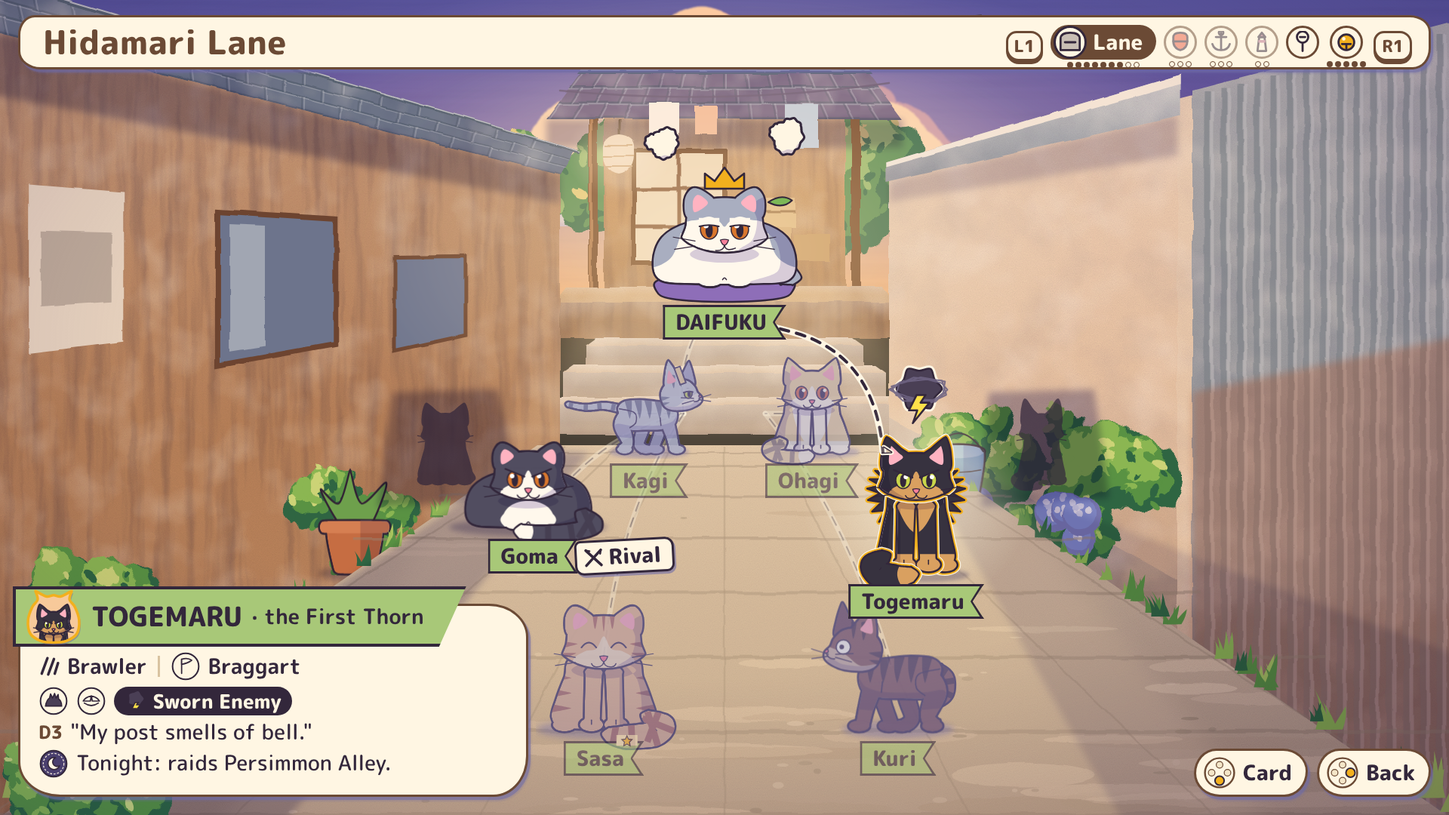
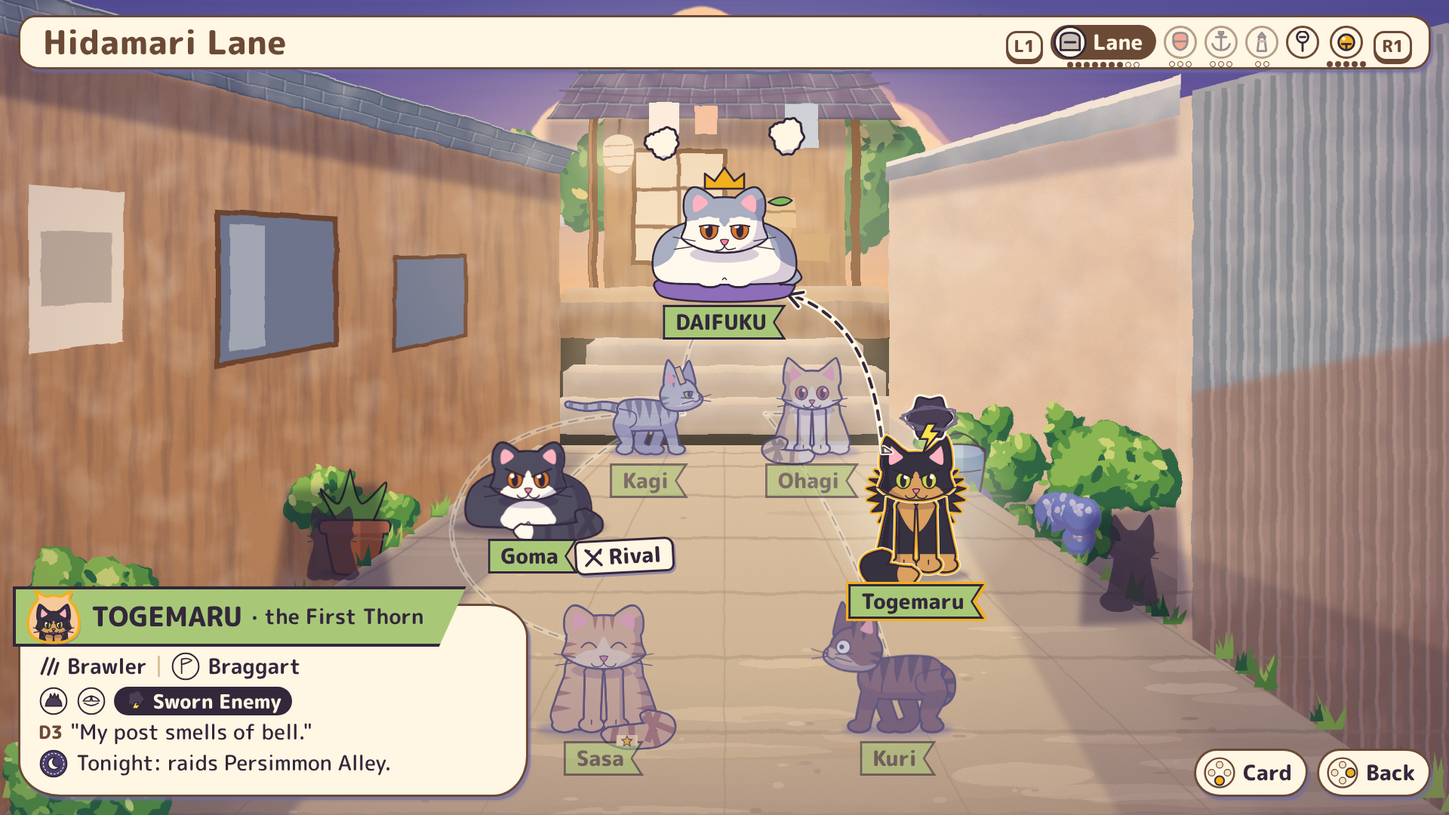
docs: Rivals board declutter fixes after UX review; gallery caption
Claude-Session: https://claude.ai/code/session_01K9BzCtu5ca2nRxDXecreHZ

diff --git a/design/previews/06-fence-line.html b/design/previews/06-fence-line.html
@@ -24,7 +24,7 @@
   .nm { position: absolute; transform: translateX(-50%); display: flex; align-items: center; }
   .nm .k-ribbon { height: 40px; font-size: 28px; padding: 0 26px 0 14px; }
   .nm--dim { opacity: .55; }
-  .nm--focus .k-ribbon { --k-clowder: var(--sage); box-shadow: 0 0 0 4px var(--gold); }
+  .nm--focus { filter: drop-shadow(3px 0 0 var(--gold)) drop-shadow(-3px 0 0 var(--gold)) drop-shadow(0 3px 0 var(--gold)) drop-shadow(0 -3px 0 var(--gold)); }
   .star { position: absolute; right: 8px; top: -12px; }
   .rtag { margin-left: -4px; display: flex; align-items: center; gap: 6px; height: 40px; padding: 0 14px 0 8px; background: var(--cream); border: 3px solid var(--ink); border-radius: 8px 12px 10px 12px; box-shadow: 2px 3px 0 rgba(110,106,168,.6); font: 800 28px/1 var(--font); color: var(--ink); transform: rotate(-3deg); }
   .rtag svg { display: block; }
@@ -144,9 +144,9 @@ const [dx, dy] = POS.daifuku;
 const dash = (d, w, op) => `<path d="${d}" fill="none" stroke="${C.cream}" stroke-width="${w + 5}" stroke-linecap="round" opacity="${op}"/><path d="${d}" fill="none" stroke="${C.ink}" stroke-width="${w}" stroke-dasharray="12 10" stroke-linecap="round" opacity="${op}"/>`;
 const head = (x, y, ang, w, op) => `<g transform="translate(${x} ${y}) rotate(${ang})" opacity="${op}"><path d="M-14 -10L4 0L-14 10" fill="none" stroke="${C.cream}" stroke-width="${w + 5}" stroke-linecap="round" stroke-linejoin="round"/><path d="M-14 -10L4 0L-14 10" fill="none" stroke="${C.ink}" stroke-width="${w}" stroke-linecap="round" stroke-linejoin="round"/></g>`;
 s.push(dash('M906 548Q896 480 932 424', 2, 0.35) + head(932, 424, -62, 2, 0.35));                     // left trunk (faint)
-s.push(dash('M760 630Q820 570 906 548', 2, 0.35) + dash('M836 548L906 548', 2, 0.35) + dash('M800 870Q820 680 906 548', 2, 0.35));
+s.push(dash('M760 630Q820 570 906 548', 2, 0.35) + dash('M836 548L906 548', 2, 0.35) + dash('M760 850Q600 800 598 700Q620 540 906 548', 2, 0.35));
 s.push(dash('M1060 548L1014 548', 2, 0.35) + dash('M1180 880Q1120 680 1014 548', 2, 0.35));           // dim right branches
-s.push(dash('M1170 600Q1160 470 1050 440Q1010 430 992 424', 4, 1) + head(992, 424, -165, 4, 1));  // Togemaru's own arrow
+s.push(dash('M1170 600Q1160 470 1100 420Q1074 398 1048 392', 4, 1) + head(1048, 392, -160, 4, 1));  // Togemaru's own arrow
 
 // Daifuku (his Boss): full colour, crown on the perch, two steam puffs above
 s.push(K.inked(K.blob(K.xf([[-90, 0], [-84, -16], [0, -22], [84, -16], [90, 0], [70, 10], [0, 14], [-70, 10]], { x: dx, y: dy })), '#8E6EB8', 2.5));
@@ -158,8 +158,8 @@ s.push(K.dustCloud({ x: dx - 80, y: dy - 196, r: 22, puffs: 4, seed: 2 }) + K.du
 // dimmed: Captains, Sasa, Kuri, and the two unmet silhouettes in the wall shade
 s.push(dim(K.cat({ ...RV.CAST.kagi, pose: 'side-walk', expr: 'smug', x: POS.kagi[0], y: POS.kagi[1], scale: 1.0 }) + `<g transform="translate(${POS.kagi[0] + 42} ${POS.kagi[1] - 100}) rotate(-20)">${K.inked('M-4 -14H4V9H-4Z', '#F2D8A0', 1.8)}</g>`));
 s.push(dim(K.cat({ ...RV.CAST.ohagi, pose: 'front-sit', x: POS.ohagi[0], y: POS.ohagi[1], scale: 1.1, flip: true })));
-s.push(K.castShadow('M520 520L660 516L690 660L500 672Z', 0.5) + K.castShadow('M1310 520L1450 516L1470 660L1300 672Z', 0.5));
-s.push(`<g opacity="0.72">${sil(K.cat({ ...RV.CAST.hanpen, pose: 'front-sit', x: 590, y: 640, scale: 0.92, shadow: false }))}${sil(K.cat({ ...RV.CAST.nori, pose: 'front-sit', x: 1380, y: 640, scale: 0.9, shadow: false, flip: true }))}</g>`);
+s.push(K.castShadow('M380 650L500 640L520 790L360 800Z', 0.55) + K.castShadow('M1440 680L1560 670L1580 820L1430 830Z', 0.55));
+s.push(`<g opacity="0.72">${sil(K.cat({ ...RV.CAST.hanpen, pose: 'front-sit', x: 440, y: 766, scale: 0.82, shadow: false }))}${sil(K.cat({ ...RV.CAST.nori, pose: 'front-sit', x: 1500, y: 800, scale: 0.95, shadow: false, flip: true }))}</g>`);
 s.push(dim(K.cat({ ...RV.CAST.sasa, pose: 'front-sit', expr: 'happy', carry: 'spring', x: POS.sasa[0], y: POS.sasa[1], scale: 1.55 })));
 s.push(dim(K.cat({ ...RV.CAST.kuri, pose: 'side-walk', expr: 'shock', x: POS.kuri[0], y: POS.kuri[1], scale: 1.4, flip: true })));
 
@@ -172,7 +172,7 @@ s.push(K.shadow({ x: tg.x, y: tg.y + 6, rx: 70, ry: 10, opacity: 0.5 }));
 s.push(K.glow(tg.x, tg.y - 90, 150, 140, '#FFF0C0', 0.55));
 s.push(RV.hackles({ x: tg.x, y: tg.y, scale: tg.sc, rim: C.gold }));
 s.push(RV.notched(K.cat({ ...RV.CAST.togemaru, pose: 'front-sit', expr: 'angry', outline: 'gold', x: tg.x, y: tg.y, scale: tg.sc, flip: true, shadow: false }), [RV.frontNotch(tg.x, tg.y, tg.sc, 'l')], { rim: C.cream }));
-s.push(RV.storm({ x: tg.x + 4, y: tg.y - 236, s: 0.85 }));
+s.push(RV.storm({ x: tg.x + 18, y: tg.y - 198, s: 0.85 }));
 
 /* ---------- grade: soft violet edge ---------- */
 s.push(`<radialGradient id="vg" cx="0.5" cy="0.42" r="0.75"><stop offset="0.55" stop-color="#6E5AA0" stop-opacity="0"/><stop offset="1" stop-color="#6E5AA0" stop-opacity="0.34"/></radialGradient><rect width="${W}" height="${H}" fill="url(#vg)" style="mix-blend-mode:multiply"/>`);

diff --git a/design/previews/gallery.html b/design/previews/gallery.html
@@ -109,8 +109,8 @@ code { font-family: ui-monospace, Menlo, Consolas, monospace; font-size: .9em; }
       <figcaption><b>The stand-off</b><span>Togemaru, the first rival to come back, opens with a line about the ear you notched last time.</span></figcaption>
     </figure>
     <figure>
-      <img src="06-fence-line.png" alt="A dusk alley in deep perspective: the boss Daifuku on a porch perch at the far end with a crown and anger puffs, captains on the steps and the rest of his gang down the path, each with a name ribbon and role tag, dashed arrows up to the boss, two unmet cats as silhouettes, a scene strip of six districts in the header, and Daifuku's card bottom left." loading="lazy">
-      <figcaption><b>The Rivals board</b><span>Each gang staged as a scene: the boss on its perch, captains on the steps, the rest on the path, cats you have not met as silhouettes. Six scenes cover every gang in town plus newcomers and your own crew. Hovering a cat hangs relationship tags on the others you know, and the card shows its anger and its own history.</span></figcaption>
+      <img src="06-fence-line.png" alt="A calm dusk alley in deep perspective: the boss Daifuku on a porch perch with a crown and anger puffs, his gang down the path each with only a name ribbon, Togemaru selected with a gold rim while the others are dimmed, Goma tagged Rival, two unmet cats as silhouettes in the wall shade, a compact scene strip in the header and Togemaru's card bottom left." loading="lazy">
+      <figcaption><b>The Rivals board</b><span>Each gang staged as a scene: the boss on its perch, captains on the steps, the rest on the path, cats you have not met as silhouettes in the shade. At rest every cat shows only its name. Pointing at one (here Togemaru) dims the others, tags its ties (Goma, its rival) and opens its card. Six scenes cover every gang in town plus newcomers and your own crew.</span></figcaption>
     </figure>
     <figure>
       <img src="07-verdict.png" alt="A dizzy defeated rival lies before Mikan and the crew, with three choices: Chase Off, Nose-Touch with a 10-day truce, and Recruit with two bribe prices." loading="lazy">

diff --git a/production/artifact-slice/IMPLEMENTATION-PLAN.md b/production/artifact-slice/IMPLEMENTATION-PLAN.md
@@ -27,7 +27,7 @@
 1. **The look.** Within 30 seconds: "a hand-painted anime I can walk around in". Inked cel cats over painted streets and sky, from any camera angle.
 2. **The brawl.** They switch cats and command a Move in Slow Blink. Before minute 4 they finish their first **two-cat Pile-On**.
 3. **A Rival who remembers.** Togemaru flees on day 1, returns on day 2 and **cites yesterday** (≈ 7:15). They give him one of **three Verdicts**, and it shows on his model (a Scar) and on the **Rivals board**.
-4. **A town of cats who know each other.** The Rivals board as a **staged alley scene**: Daifuku on the far perch, the gang down the steps with name ribbons and role tags, silhouettes for cats not yet met; they **hover a cat and see its ties**, including one they discovered by sniffing.
+4. **A town of cats who know each other.** The Rivals board as a **staged alley scene**: Daifuku on the far perch, the gang down the steps with name ribbons (role tags on the focused cat's card), silhouettes for cats not yet met; they **hover a cat and see its ties**, including one they discovered by sniffing.
 5. **Territory that never stays won.** A stranger **stakes their post**; the **influence bar** sits at 95%; one rescue Spray fills it and **the Boss climbs down off his wall**. They read the threat on the **unified Turf Board**, **post a Sentry**, sleep, and find the result **as a pile of fish on the Doorstep**, with the bar a little lower for the night.
 6. **Home.** The HUD fades at the garden wall and the camera drops to cat height. **The Call** (E4–G4–C4), the bell on the fourth beat, then a wordless scene with Haru at the upright piano: Mikan walks the keys and she plays a bass line under the steps.
 7. **Optional: losing.** Those who take on the Boss early and lose see the day end: moon-blue nightfall, the walk home, and Haru's sticking plaster.
@@ -95,7 +95,7 @@ Life 1 days 1–2 stay almost intact (≈ 9 min). Then the Life 1→2 montage, a
 | 8:35–8:55 | **Sniff to discover.** Hige: "That's Daifuku up there." Hold Whisker Sense on him for 1 s from the yard perch → the scent-outline confirmation [skippable; he then stays a crowned silhouette] | Discovery | Systemic rule; placed perch |
 | 8:55–9:20 | **M1 The Kitten Grows** (25 s): seasons through the glass; the Piece through the walls, always stopping at the same bar. "Life 2" | Wordless; piano motif | Scripted |
 | 9:20–9:45 | **Life 2 day 2, the Doorstep**: a bigger pile. The Sniff, in canon priority: **A** the Declaration card (Sworn Rival, sprig, notch) · **B** "Wears the bell now" · **C** "Run out of town"; **"A stranger's scent"** (a silhouette staking Laundry Pole Yard, tape star); **"The big wall is seething."** (steam puffs). Forecast: tonight's **`challenge`** on Laundry Pole Yard (the silhouette + a Stray) | Sniff cards, forecast | Snapshot; forecast from data |
-| 9:45–10:15 | **The Rivals board** ("(N) See the Rivals"): the Lane's alley in deep perspective, Daifuku on the far perch with three puffs, the gang down the steps with name ribbons and role tags and answers-to arrows, unmet cats as silhouettes. One hint: "Hover a cat: see who it knows." Hover Togemaru → Goma **Rival**, Daifuku **Boss** (B: **Old Boss**); hover Daifuku → Hige **Old Gang** (if sniffed); Kinako shows no tag, because Sasa is still a silhouette. The Outsiders gate holds the challenger's silhouette | Rivals board, tags, discovery | Systemic display |
+| 9:45–10:15 | **The Rivals board** ("(N) See the Rivals"): the Lane's alley in deep perspective, Daifuku on the far perch with three puffs, the gang down the steps with name ribbons and faint answers-to arrows, unmet cats as silhouettes. One hint: "Hover a cat: see who it knows." Hover Togemaru → Goma **Rival** and his arrow to Daifuku brightens (B: **Old Boss** tag on Daifuku), his card slides up with his role tag; hover Daifuku → Hige **Old Gang** (if sniffed); Kinako shows no tag, because Sasa is still a silhouette. The Outsiders gate holds the challenger's silhouette | Rivals board, tags, discovery | Systemic display |
 | 10:15–10:55 | **The Lot → unified Turf Board (≤ 45 s, one decision).** Header: **influence 95%**, crown unlit. Map: Laundry Pole Yard with a stake badge. The Tonight panel opens on it: the challenger + Stray, `challenge`, "Scent 48 · Strong at 60", tomorrow's Tribute. Carry a cat: **Pon** (laughs off the challenge: no over-mark), **Hige** (best odds, leaves the Posse) or **Kinako** (weak alone). The odds bar in three segments, no percentages | Sentries, counters | Systemic; seeded per save |
 | 10:55–11:15 | **The gatepost.** The challenger glowers from the fence top beside it. **Rescue Spray the gatepost** (48 → 90; hint "Spray it Strong. The bar fills.") → **influence 100**: Daifuku's yowl rolls down and he climbs to his Morning stop on the yard wall above the wash tub (≈ 15 s, in view, control kept); a crown tick on the compass | Rescue Spray, the Boss window | Systemic window; staged climb |
 | 11:15–12:15 | *Optional* [fast path: "Nap to Dusk"]. **The challenger**: "This post's mine now, Collar." Challenger + 1 Stray at the gatepost, the **bucket** and a **Relay**. **A:** a 3 s yowl and **Togemaru joins** as an allied guest (sprig plate). Rout → **the second Verdict** (Chase Off or Nose-Touch; Recruit halftoned, "turns its tail to the bell"). The challenge ends; no Scent is gained | Relay, Fears, join-in | Systemic; join forced in A |
@@ -197,7 +197,7 @@ Kagi as a fighter, Tofu Shop Step and Persimmon Alley as playable Patches; Daifu
 - **The Rivals board is a staged 3D diorama (C6; `key-screens.md` §2 owns the layout).** It is not a 2D panel: it is a small separate scene, rendered alone while the street is paused.
   - **Set:** a narrow alley climbing away from a fixed camera in deep perspective (vFOV ≈ 35°, low eye height): stone steps and a path toward the camera, a raised porch perch at the vanishing point for the Boss, built from `world/board_lane.json` with the same environment shader, baked paint and phase lighting as the street (Dusk gold by default; moon-blue after a loss).
   - **Cats:** the live SDF meshes in a neutral idle per personality, placed on authored **step anchors** by each cat's fixed role (`relations.json`); play never reorders them. **Undiscovered** cats use the same anchor with a flat Ink material and a generic sit pose (no coat, Scars or pose), plus a crown outline for a Boss. Gone cats are paper legend cards on their anchor.
-  - **Labels:** name ribbons, role tags, relationship tags, puffs and sprigs are DOM elements positioned each frame from projected 3D anchor points; **answers-to arrows** are dashed SVG paths between projected anchors; the header (place, influence bar), the left facts column, the bottom-left cat card and the bottom-right button bar are static DOM.
+  - **Labels:** name ribbons, relationship tags (≤ 3, on focus), puffs and sprigs are DOM elements positioned each frame from projected 3D anchor points; **answers-to arrows** are dashed SVG paths between projected anchors; the header (place name, scene strip), the bottom-left cat card (on focus only; carries the role tag) and the bottom-right button bar are static DOM. No fact column and no influence bar on the board (owner declutter, 2026-11-24).
   - **Interaction:** mouse hover raycasts against per-cat bounding capsules (120 ms delay); pad and keys move focus in step order (nearest first); L1/R1 cycle scenes (the Lane, the Outsiders gate, the Bell at the Lot); 2–4 px camera drift on focus change (off under Reduce Motion).
   - **Budget:** ≤ 200 draw calls and ≤ 250k triangles, so it opens in ≤ 300 ms after the first visit (the set is built once and kept).
 - **Sizing:** scales from `min(vw, vh)`; text floor 28 px at 1080p, 150% option. Home shows pictograms only; the HUD fades over 800 ms at the wall.
@@ -348,7 +348,7 @@ An **agent-session** is one focused session by one specialist agent (≈ 2–4 h
 | **M0** | **Look-dev spike: GO/NO-GO on the art target** (unchanged in intent) | Adult Mikan and one Wall Sitter (idle and walk) in **one lane corner**: plaster wall with coping, board fence, laundry pole, stone-lantern Scent Post, hydrangeas, a foliage clump, sky dome, sea card. Day and Dusk, free orbit camera. A comparison page beside `01-exploration.png` | (1) Side-by-side at the 01 framing in Day and Dusk, judged by the art- and creative-directors, then **the user**. (2) Pixel checks: line 2.0 ± 0.5 px at 1080p and at 85% scale; Ink ΔE ≤ 3; E-5 separation ≥ 20 L*; no grey shadows. (3) 8 orbit shots 45° apart, none reading as untextured 3D. (4) A silhouette strip of the 6 tail carriages. **Decision:** GO / GO with fixes / pivot to the §8 risk 1–2 fallbacks | **5–6** |
 | **M1** | **Combat grey box** | The sandbox chapter: the full verb set, Tag-In and Relay, Slow Blink, Quick and Full Pile-On, the 6 Moves, personality AI, tiers and the arbiter, the combat camera and HUD; **the allied guest**; **Daifuku phase 1 on the wash-tub kit** (knock-offs, Climb Back, Fired Up by stage, the phase-break flee) | Unit tests reproduce F1–F6 worked examples (Pile-On 48 / 34.3 / 55.1 MV) and F11 (Fired Up seconds by stage; paused while Soggy). The same seed and input log give the same outcome hash. A smoke run reaches a Pile-On. A guest joins on cue and the opposing Rival's AI state is unchanged (hash). Daifuku: a scripted bot reaches the phase break; a passive bot wipes. 10 random-pause shots. Flash screening on a Pile-On | **8–9** |
 | **M2** | **Lane, exploration, territory** | ≈ 120 m of lane with two Patches, the yard-wall stop and the Den sniff perch, High Road ribbons, Whisker Sense (incl. the 1 s sniff), Over-mark, Counter-Spray, Claim and Rescue Spray, wisps, `MarkApplied`, the Explore camera with collision, Day → Dusk with the lamp wave, the Head Home thread, the street HUD, the wall blend | A 5-min bot walk: zero frames with the camera inside geometry; the cat in frame ≥ 98%. Scent and influence unit tests (Territory §4.14 worked example: 95 → 100). 6 vantage shots × 2 phases. A real-laptop frame log | **6–7** |
-| **M3** | **Rivals, Verdict, the Rivals board** | The Togemaru arc over L1D1–L1D2 (Standoff, sting, day-1 flee, memory line, the first-Rout Scar, **the three-card Verdict** with tells and reasons); discovery; **the Rivals board as a 3D perspective diorama** (§3.4) with ribbons, role tags, answers-to arrows, silhouettes, hover/focus tags, puffs, sprigs, legend cards, the Outsiders and Bell scenes; the Declaration and closing cards | Ledger tests against Nemesis §3.5 and its caps; F4 gate checks (Togemaru 43 < 45 open; a loud take closes a Life 2 Keeper's card). **Patent invariant tests:** a Verdict, a join-in and an anger change alter no cat but the subject. One smoke run per Verdict (A, B, C) checks the stored state and the snapshot. Tag tests: no tag on an undiscovered cat; Kinako shows none while Sasa is unmet. The board opens ≤ 300 ms after first build; all slice cats fit 1080p without scrolling. Screenshots of each screen and scene | **6–7** |
+| **M3** | **Rivals, Verdict, the Rivals board** | The Togemaru arc over L1D1–L1D2 (Standoff, sting, day-1 flee, memory line, the first-Rout Scar, **the three-card Verdict** with tells and reasons); discovery; **the Rivals board as a 3D perspective diorama** (§3.4) with ribbons, answers-to arrows, the focus card with role tags, silhouettes, hover/focus tags, puffs, sprigs, legend cards, the Outsiders and Bell scenes; the Declaration and closing cards | Ledger tests against Nemesis §3.5 and its caps; F4 gate checks (Togemaru 43 < 45 open; a loud take closes a Life 2 Keeper's card). **Patent invariant tests:** a Verdict, a join-in and an anger change alter no cat but the subject. One smoke run per Verdict (A, B, C) checks the stored state and the snapshot. Tag tests: no tag on an undiscovered cat; Kinako shows none while Sasa is unmet. The board opens ≤ 300 ms after first build; all slice cats fit 1080p without scrolling. Screenshots of each screen and scene | **6–7** |
 | **M4** | **Home and story** | The house, Haru's and Gran's legs and hands, K1.1, K1.3, M1, Storyboard B with the piano duet and Lap, **the plaster beat** and Storyboard B's short form at night light, the Home camera, the Call system | No standing-adult face in 200 random free-roam frames. Shot-list screenshots (incl. the plaster beat). **A muted run reviewed against the Tier A lines.** The Call's pitches verified by FFT on an offline render (E4, G4, C4 ± 10 cents) | **7–8** |
 | **M5** | **Day loop, overnight, owner beats, full script** | The director runs §2.2 end to end: the Sniff cards, the Rivals board stop, **the unified Turf Board** with the influence header, **the rescue-Spray reveal**, **the challenger** (staking, fight, second Verdict, join-in in A, over-mark, `challenge` raid), **the loss flow** (nightfall, closed street, walk home, Routed Evening hook) and **branch D/L**, the overnight diorama with decay, the tribute morning, chapter select (A/B/C, "Lose to Daifuku", sandbox, new seed), the end card | Raid odds match the §4.5 worked table (Stalwart single raider 90/5/5; Pon `grudge` counter 78%) and a `challenge` case. Influence after the night matches Territory §4.1 (seeded case with the gatepost guarded: Tofu Shop Step 70 → 58, bar 99, window open). Loss tests: clock = 720, −20% haul, only the victor's record changes. Full-run smoke tests reach the end card in A, B, C and L with no console errors. **Timed human runs:** main ≤ 15 min, fast ≈ 12:30, branch L ≤ 17 min. Turf Board first use ≤ 45 s | **6–7** |
 | **M6** | **Audio** (in parallel from M1) | Instruments, the scores, ≈ 45 SFX, Murmur, the mix; Daifuku's yowl, the challenger sting, the join-in yowl, the nightfall sting | Property test: 10k random key-walks never form the Call. Duck ≥ 9 dB. Peaks ≤ −1 dBFS. Audio-director sign-off. A 3-person "hum the Call" check | **5–6** |

diff --git a/design/ux/key-screens.md b/design/ux/key-screens.md
@@ -1,6 +1,6 @@
 # UX Spec: Key Screens — Cat RPG (vertical slice, round 2)
 
-*Owner: ux-designer · Date: 2026-11-23, revised 2026-11-24 (owner feedback pass; consistency pass by the creative director) · Status: round-2 slice rewrite, revised to the owner's comments C1–C5 (the first draft is archived at `design/backlog/first-drafts/key-screens.md`)*
+*Owner: ux-designer · Date: 2026-11-23, revised 2026-11-24 (owner feedback pass; consistency pass by the creative director; Rivals board declutter, `design/ux/rivals-board-cleanup.md`) · Status: round-2 slice rewrite, revised to the owner's comments C1–C5 (the first draft is archived at `design/backlog/first-drafts/key-screens.md`)*
 *Canon order: owner comments `design/reviews/user-comments-2026-11-24.md` → `design/reviews/owner-feedback-rulings.md` (OR-xx, binding), as settled by `design/reviews/owner-feedback/consistency-pass.md` (F1–F12) → `design/creative-brief.md` v1.6 → round-1 DR-xx and round-2 R1–R5. Patent guardrails: `design/legal/nemesis-patent-analysis.md` v2 §5 (binding). Companions: `design/ux/hud.md` (HUD, control map), `design/accessibility-requirements.md`.*
 
 **Scope.** The slice screens: the **Rivals board** (§2, replaces the Fence Line), the **Rival card** (§3), the **Verdict** and the **loss-to-night walk home** (§4), the **unified Turf Board** (§5), the **Crew roster, Posse and Lessons** (§6) and the **first-15-minutes and first-hour onboarding plan** (§7). Every number, threshold and rule shown is read from its owning GDD; this doc decides only what is shown, where, and how the player moves through it.
@@ -72,7 +72,7 @@ The owner's note on the old Turf Board ("the UI are all over the place") applies
 | **Cat chip** | `ui.portrait` (chestnut) + `.k-ribbon` name tag in the Clowder colour + personality icon | Every small cat: Crew strip, Tonight panel, Sniff cards, tags' owner, ally plate | — |
 | **Paper tag** | `.k-pill --cream`, icon + one word | Relationship tags on the Rivals board; assignment chips | Numbers |
 | **Badge** | One pom-backed icon in the top-right of whatever it marks | Tonight (moon), Challenge (stake flag), Fading (cracked wisp), Home (house), Window (crown), New (tape star) | More than one per object |
-| **Bar** | `.k-gauge` | Influence (header), Repelled/Scuffed/Lost odds (Tonight panel) | Feelings (Grudge, Regard, Loyalty, anger) |
+| **Bar** | `.k-gauge` | Influence (Turf Board header), Repelled/Scuffed/Lost odds (Tonight panel) | Feelings (Grudge, Regard, Loyalty, anger) |
 | **Buttons** | `.k-btn`: one **primary** (Cocoa) or **confirm** (Collar Crimson) per screen, plus pom secondaries | "Post Hige", "Hold to decide" | Two primaries on one screen |
 | **Control footer** | `.k-prompt` row, bottom-left, binding glyph + verb | Every menu | — |
 
@@ -394,12 +394,12 @@ The board would serve as '179's output element for any second-cat change it disp
 
 ### 2.12 Acceptance
 
-1. **Fit:** each scene fits its gang (Lane: ≤ 10 tracked + silhouettes) at the 1080p default framing without scrolling; every focusable cat ≥ 64 px tall; every ribbon, role tag and relationship tag ≥ 28 px text.
-2. **Screenshot test (OR-03):** a 1080p capture of the Lane scene lets 4 of 5 unbriefed viewers say who the Lane's Boss is, who hates the player, and which cats they have not met.
+1. **Fit:** each scene fits its gang (Lane: ≤ 10 tracked + silhouettes) at the 1080p default framing without scrolling; every focusable cat ≥ 64 px tall; every ribbon, role tag and relationship tag ≥ 28 px text. At rest each discovered cat shows exactly one text label; ≤ 16 text items on screen at rest; no label overlaps another cat; no arrow crosses the centre line.
+2. **Screenshot test (OR-03):** a 1080p capture of the Lane scene's **rest** frame (nothing focused) lets 4 of 5 unbriefed viewers say who the Lane's Boss is, who hates the player, and which cats they have not met.
 3. **Roster test (C1):** asked "how many gangs are there, and which have you not met?", ≥ 80% of testers answer from the scene strip within 10 s.
-4. **Tag test:** asked "who is Togemaru's rival?" and "who was Hige's old boss?", ≥ 80% of testers answer in ≤ 10 s, with the mouse and with the pad (the second needs Go to tie or the tab tag).
-5. **Role test:** ≥ 70% of testers, shown a role tag, can guess how that cat fights (e.g. "Shield: protects the others").
-6. **Anger test:** shown the Lane scene with Daifuku Seething, ≥ 80% of testers can say what made him angry (marking in his Lane) and that it will be spent in his next fight.
+4. **Tag test:** asked "who is Togemaru's rival?" and "who was Hige's old boss?", ≥ 80% of testers answer in ≤ 10 s, with the mouse and with the pad (the second needs Go to tie or the tab chip).
+5. **Role test:** ≥ 70% of testers, shown a role tag on the focused cat's **card**, can guess how that cat fights (e.g. "Shield: protects the others").
+6. **Anger test:** shown the Lane scene's rest frame with Daifuku Seething, plus the Boss's card, ≥ 80% of testers can say what made him angry (marking in his Lane) and that it will be spent in his next fight.
 7. Opening from the street takes ≤ 300 ms to the first interactive frame; changing scene ≤ 200 ms; the clock is paused while it is open.
 8. The §2.11 audit passes with zero findings.
 
@@ -421,8 +421,10 @@ Everything the player knows about one discovered Rival, presented as a cat with 
 | **History (Memory)** | Stamp strip of up to 6 pinned entries, then the rest (≤ 10): each a pictogram stamp (Routed by you, Routed you, Ambushed, Fled, Nose-Touched, truce, Lick In, Spray over its mark, Old Score) + one line in its own voice ≤ 60 characters + the day. **Only its own dealings with Mikan** (G8) | Nemesis |
 | **Grudge** and **Regard** | Two 4-step moods as pictograms: Grudge = hackles (smooth → bristled → arched → storm); Regard = ears (back → level → forward → nose-out). **No numbers, no bars** | Nemesis |
 | Sworn / Bitter | Storm mark around the portrait with *Sworn Enemy* or *Sworn Rival* / grumble cloud | Nemesis |
-| **Ties** (OR-04) | One row of paper tags for discovered cats only: "Boss: Daifuku · Rival: Goma · Kin: Sasa". Each tag's portrait is focusable and jumps the board's focus to that cat | Nemesis |
+| **Ties** (OR-04) | One row of paper tags for discovered cats only, the full list, including a Boss's whole gang (the board shows Gang/Boss by arrows only, and at most 3 tags): "Boss: Daifuku · Rival: Goma · Kin: Sasa". Each tag's portrait is focusable and jumps the board's focus to that cat | Nemesis |
 | **Anger** (Bosses only, OR-07) | Steam puffs, stage word and the two system lines of §2.8 | Nemesis |
+| **Tonight** | Moon (raid) or stake flag (challenge) + the target Patch ("Tonight: raids Persimmon Alley."), when a raid or challenge by this cat is forecast. Moved from the deleted fact column | Territory |
+| **Objective** (Bosses only) | One line from the turf goal: "Mark the Lane until he comes down." → "He roams: find him." → "Spray the Den corner stone." → "The Lane is yours." Moved from the deleted fact column | Territory |
 | **Truce** (Nose-Touched) | Sprig + "Truce: 6 days left" (days are calendar counts, not feelings) or "Friend" | Nemesis |
 | **Strengths** | Known Strengths as stamps; unknown as "?". Line: "If recruited: always-on perk" under the Strength | Nemesis chooses, Combat values |
 | **Fears** | Known Fears as stamps (Water, Loud Noise, Cucumbers in the slice); unknown "?" | Nemesis chooses, Combat values |
@@ -924,6 +926,8 @@ A single button on its tab: the cost (Σ Crew levels), the Stash, and a preview 
 - Handheld-console framing check for the Rivals board (fit at 720p).
 
 ## Revision Log
+
+**Owner: Rivals board declutter (2026-11-24).** Owner on preview 06: 'very crowded and cramped'. `design/ux/rivals-board-cleanup.md`: names only at rest (one label per cat), role tags and ties on focus only (≤ 3 tags, Gang/Boss by arrows), card on focus only, fact column and influence bar removed (Turf Board owns them), compact emblem scene strip, faint merged arrows, ≤ 1 mark per cat; §2.1–2.9, §2.12, §3.2 updated; §2.6.1 deleted.
 
 **2026-11-24, Consistency pass (creative director; `design/reviews/owner-feedback/consistency-pass.md`).**
 

diff --git a/design/GDD.md b/design/GDD.md
@@ -221,7 +221,7 @@ The garden wall blends Explore → Home in 1.0 s (no cut). Tag-Ins retarget in 0
 
 **Rules.**
 - **≤ 12 tracked cats**, each with a personality, a 10-entry **Memory** of events it took part in, and hidden **Grudge** and **Regard** (never numbers). **Roles are fixed at generation:** no seats, promotions or demotions; nothing that happens to one cat moves another.
-- **The Rivals board (C1, C6; replaces the Fence Line).** **Each gang is a scene in deep perspective:** the Boss on a raised perch at the far end of its alley (crown), the gang **down the steps toward the camera by standing** (its fixed role; play never reorders it), each cat with a **name ribbon and a role tag** for its own fixed job (rank: "Boss of …" or "Captain · …"; role from personality, fixed for life: Brawler, Enforcer, Sneak, Lookout, Shield, Prankster, shown with a Style icon; Outsiders: Challenger, Newcomer, Turncoat, Roamer) and **dashed arrows for who answers to whom**. Header: place and influence; left column: tonight's raid, Scent, objective; bottom-left: the focused cat's card (personality, anger, ties). Further scenes: the uphill districts (authored silhouettes in haze), the **Outsiders** (challengers, newcomers, turncoats), the **Bell** (the Crew), **legend cards** for Gone cats. Read-only; View / J on the street and at the Lot, never in the house; unlocks L2D1. Spec: [`ux/key-screens.md`](ux/key-screens.md) §2–§3 (revised for C6); preview `previews/06-fence-line.png`. *Roles and reporting lines are facts fixed at generation, only shown (v2 §5, G3, G11).*
+- **The Rivals board (C1, C6; replaces the Fence Line).** **Each gang is a scene in deep perspective:** the Boss on a raised perch at the far end of its alley (crown), the gang **down the steps toward the camera by standing** (its fixed role; play never reorders it), each cat with **only a name ribbon at rest**, its **role tag** for its own fixed job on its card when focused (rank: "Boss of …" or "Captain · …"; role from personality, fixed for life: Brawler, Enforcer, Sneak, Lookout, Shield, Prankster, shown with a Style icon; Outsiders: Challenger, Newcomer, Turncoat, Roamer), and faint **dashed arrows for who answers to whom**. Header: place name and a compact scene strip (no influence bar; influence, posts and tonight's raid live on the Turf Board); bottom-left, on focus only: the focused cat's card (role tag, personality, anger, one history line); ≤ 3 tags for rare ties on focus, the full Rival card lists all ties (owner declutter, 2026-11-24). Further scenes: the uphill districts (authored silhouettes in haze), the **Outsiders** (challengers, newcomers, turncoats), the **Bell** (the Crew), **legend cards** for Gone cats. Read-only; View / J on the street and at the Lot, never in the house; unlocks L2D1. Spec: [`ux/key-screens.md`](ux/key-screens.md) §2–§3 (revised for C6); preview `previews/06-fence-line.png`. *Roles and reporting lines are facts fixed at generation, only shown (v2 §5, G3, G11).*
 - **Discovery:** undiscovered cats are silhouettes (a crown outline for a Boss). Any encounter, a **Whisker Sense sniff** (1.0 s within 10 m) or joining the Crew discovers a cat.
 - **Relationship tags:** hover or focus a discovered cat and a tag appears on every other **discovered** cat it relates to: **Boss / Gang**, **Rival**, **Kin**, **Old Boss / Old Gang** (stored only on the recruit). Also on the card's Ties line. Effects land only on the holder: Gang says whose influence a Patch counts for; Rival enables the join-in and feud scuffles; Kin means AI never targets its Kin; Old Gang gives the recruit its nerves.
 - A **Standoff** (2–4 s): name-card, a personal **yowl-sting**, one line from the cat's own history. **Silhouette Scars:** Claw → ear notch, Thump → kinked tail, Yowl → folded ear, Water Fear → damp cowlick. **Lick In:** flatten Mikan in a fight the Posse wins and earn a Title. **After a wipe only the victor changes**; only it may cite Mikan's plaster. **Adaptation** follows a flee or slip-away; every Rival keeps a way in.
@@ -335,7 +335,7 @@ Plus **Late Home** (L2D3 Dusk): no Call, the bell alone, Haru comes home late; i
 
 | Screen | What it is |
 |---|---|
-| **Rivals board** | Per-gang perspective scenes (§9) with name ribbons, role tags, answers-to arrows, silhouettes, hover/focus tags, puffs, sprigs, legend cards; header, facts column, cat card |
+| **Rivals board** | Per-gang perspective scenes (§9) with name ribbons, answers-to arrows, silhouettes, hover/focus tags, puffs, sprigs, legend cards; header with scene strip, focus-only cat card (role tag) |
 | **Rival card** | One cat's history: Memory lines, Scars, Title, ties, anger; how to discover it if unmet |
 | **Verdict** | Three cards with honest tells; Bribe row (Fair · Feast; "Free" in Life 1); closed cards name their reason; no timer. "Every choice clears the post. Then spray it." |
 | **Loss** | No defeat card: the Gloat, a 2 s nightfall iris, a haul tally, the walk home |

diff --git a/design/ux/rivals-board-cleanup.md b/design/ux/rivals-board-cleanup.md
@@ -3,7 +3,7 @@
 > **Trigger.** The owner on preview `design/previews/06-fence-line.png`: *"The new Rivals board looks very crowded and cramped. Everything is everywhere, please evaluate it again, clean it up."*
 > **Keep:** the staged alley from C6 (`design/reviews/refs/rivals-board-layout-ref.webp`): Boss on a perch at the far end, gang down the alley by role, depth and movement.
 > **Rulings kept:** silhouettes until discovered (OR-03), ties only between discovered cats (OR-04), Boss anger shown (OR-07), own-history lines only (G8, §2.11), no numbers for feelings (R3).
-> **Spec status:** `design/ux/key-screens.md` §2 and §3 are **not yet edited**. The edits are listed in §4 below and wait for the owner's approval (and answers to D1–D4).
+> **Spec status:** **applied 2026-11-24.** The owner asked for this pass directly ("please evaluate it again, clean it up, use ux designer agent to do a pass on it") and said the studio's recommendations apply where they do not answer, so D1–D4 are decided as recommended (§2.10) and the §4 edits are in `design/ux/key-screens.md` §2 and §3.
 
 ---
 
@@ -192,14 +192,16 @@ The legend stays on View hold / Tab hold / "?" and is not a button.
   Text on focus: 11 at rest - Last night + 1 tag + 6 card lines + Card = 18. One tag in the scene.
 ```
 
-### 2.10 Open decisions for the owner
+### 2.10 Decisions (decided 2026-11-24, as recommended)
 
-| # | Decision | Chosen here | Alternative |
+All four are **decided as recommended**. The owner asked for this pass directly ("The new Rivals board looks very crowded and cramp. Everything is everywhere, please evaluate it again, clean it up, use ux designer agent to do a pass on it.") and has said that for design questions they do not answer, the studio's recommendations apply.
+
+| # | Decision | Decided | Alternative (not taken) |
 |---|---|---|---|
-| D1 | The left fact column | **Removed**: its facts are on the Turf Board or the cat's card | Keep a single caption line under the header: the Objective only |
-| D2 | The influence bar in the Rivals header | **Removed** (the Turf Board owns territory, R3) | Keep a thin bar with no crown and no % |
-| D3 | Role tags at rest | **Hidden**: on the card only; depth already shows rank | Show the role word under the name like the reference (2 labels per cat) |
-| D4 | The card when nothing is focused | **Hidden**: the rest frame is the screenshot | Show the Boss's card (the previous rule) |
+| D1 | The left fact column | **DECIDED: Removed**: its facts are on the Turf Board or the cat's card | Keep a single caption line under the header: the Objective only |
+| D2 | The influence bar in the Rivals header | **DECIDED: Removed** from this screen (the Turf Board owns territory, R3) | Keep a thin bar with no crown and no % |
+| D3 | Role tags at rest | **DECIDED: Hidden**: on the selected cat's card only; depth already shows rank | Show the role word under the name like the reference (2 labels per cat) |
+| D4 | The card when nothing is focused | **DECIDED: Hidden** until a cat is selected: the rest frame is the screenshot | Show the Boss's card (the previous rule) |
 
 ---
 
@@ -220,7 +222,7 @@ Redraw `06-fence-line.png` as the **focus** state. Checklist:
 
 ---
 
-## 4. Proposed edits to `design/ux/key-screens.md` (pending owner approval)
+## 4. Edits to `design/ux/key-screens.md` (applied 2026-11-24)
 
 | Section | Edit |
 |---|---|
